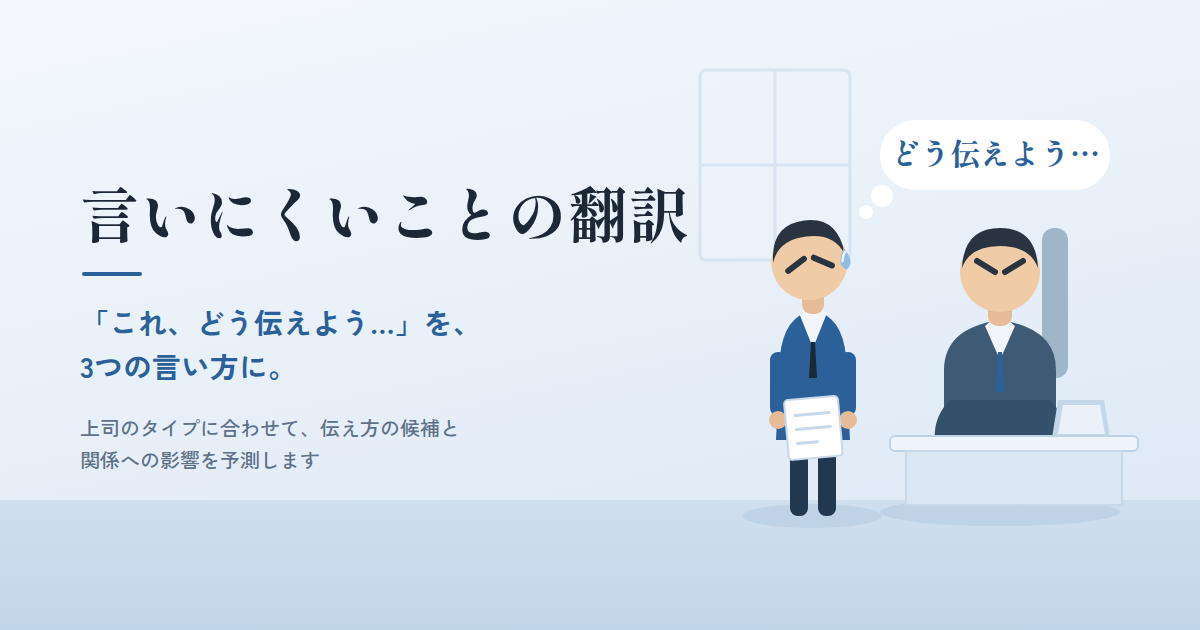
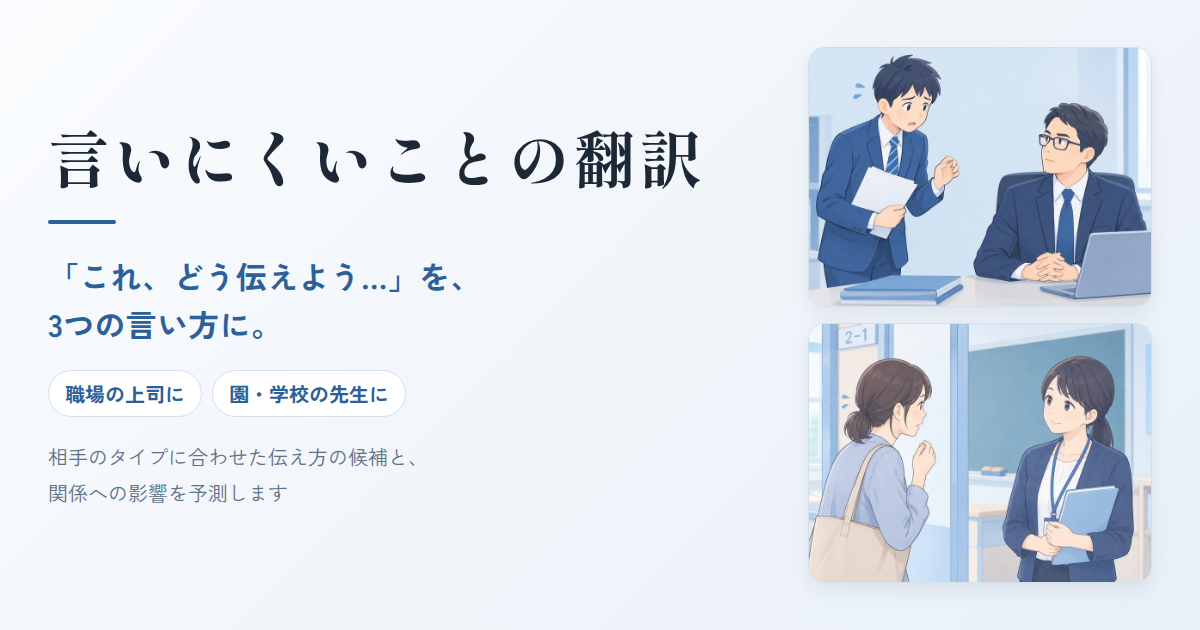
紹介ページのイラストを上司・先生の2枚に差し替える
手描き風のイラストを2枚並べて、上司の場面と園・学校の先生の場面を
同じ大きさで見せる。「上司の話だけのアプリ」と思われるのを防ぐため。

- public/scene-boss.jpg, scene-teacher.jpg を追加(800x600 の 4:3)
- 自作の SVG(SceneIllustration)は使わなくなったので削除
- ヒーローの説明文から「職場の上司へ。園・学校の先生へ。」を削除
  (イラスト下のキャプションと重複するため)
- SNS シェア用の ogp.png も新しいイラストで作り直し、
  文面を「相手のタイプに合わせた」に修正(上司限定の表現をやめる)

Claude-Session: https://claude.ai/code/session_01G5jTY6qLWTcMbeAnU9mKQT

diff --git a/components/LandingPage.jsx b/components/LandingPage.jsx
@@ -1,8 +1,24 @@
 import Link from 'next/link';
 
-import SceneIllustration from '@/components/SceneIllustration';
 import { theme, FONT_HEAD, primaryBtn, card } from '@/lib/theme';
 import { RECORDS_THRESHOLD, FREE_UNTIL } from '@/lib/constants';
+
+/**
+ * ヒーローに並べる2枚の場面イラスト。
+ * 「上司の話だけのアプリ」と思われないよう、先生の場面も同じ大きさで見せる。
+ */
+const SCENES = [
+  {
+    src: '/scene-boss.jpg',
+    caption: '職場の上司に',
+    alt: '資料を持って立ち、机に座る上司に言いにくい報告をしている会社員のイラスト',
+  },
+  {
+    src: '/scene-teacher.jpg',
+    caption: '園・学校の先生に',
+    alt: '教室の前で担任の先生に話しかけようとしている保護者のイラスト',
+  },
+];
 
 /**
  * 初めて来た人に、何が出てくるかを見せるためのサンプル。実際の生成結果ではない。
@@ -103,15 +119,48 @@ export default function LandingPage() {
           「これ、どう伝えよう…」を、3つの言い方に。
         </p>
         <p style={{ fontSize: 13, color: theme.inkMuted, margin: '0 0 16px', lineHeight: 1.8 }}>
-          職場の上司へ。園・学校の先生へ。
-          <br />
           言いにくい報告や相談を、相手に合わせた
           <br />
           言い方に翻訳します。
         </p>
 
-        <div style={{ display: 'flex', justifyContent: 'center', marginBottom: 20 }}>
-          <SceneIllustration width={280} />
+        <div
+          style={{
+            display: 'grid',
+            gridTemplateColumns: '1fr 1fr',
+            gap: 8,
+            marginBottom: 20,
+          }}
+        >
+          {SCENES.map((scene) => (
+            <div key={scene.src}>
+              <img
+                src={scene.src}
+                alt={scene.alt}
+                width={800}
+                height={600}
+                style={{
+                  display: 'block',
+                  width: '100%',
+                  height: 'auto',
+                  aspectRatio: '4 / 3',
+                  objectFit: 'cover',
+                  borderRadius: 10,
+                  border: `1px solid ${theme.border}`,
+                }}
+              />
+              <p
+                style={{
+                  margin: '6px 0 0',
+                  fontSize: 12,
+                  fontWeight: 700,
+                  color: theme.inkMuted,
+                }}
+              >
+                {scene.caption}
+              </p>
+            </div>
+          ))}
         </div>
       </div>
 

diff --git a/components/HeaderIllustration.jsx b/components/HeaderIllustration.jsx
@@ -1,6 +1,6 @@
 /**
  * ホーム画面の見出し横に置くイラスト。
- * アイキャッチ(public/ogp.png)と同じ社員を、上半身に寄せて描いたもの。
+ * 相手が上司でも先生でも同じものを出すので、困っている本人だけを上半身で描く。
  * 小さく表示するため、顔は眉と汗のみ。
  */
 export default function HeaderIllustration({ size = 78 }) {

diff --git a/README.md b/README.md
@@ -156,8 +156,13 @@ app/
   api/analyze/route.js    Claude API を呼ぶサーバールート(APIキーはここだけで使用)
 components/
   HonneApp.jsx            アプリ本体(プロトタイプの UI を移植)
+  LandingPage.jsx         未ログイン時の紹介ページ
   LoginForm.jsx           ログイン / 新規登録 / メールリンク / 再設定メールの送信
   ResetPasswordForm.jsx   新しいパスワードの入力フォーム
+public/
+  scene-boss.jpg          紹介ページの場面イラスト(上司)
+  scene-teacher.jpg       紹介ページの場面イラスト(先生)
+  ogp.png                 SNS シェア時のアイキャッチ(1200x630)
 lib/
   supabase/client.js      ブラウザ用 Supabase クライアント
   supabase/server.js      サーバー用 Supabase クライアント
